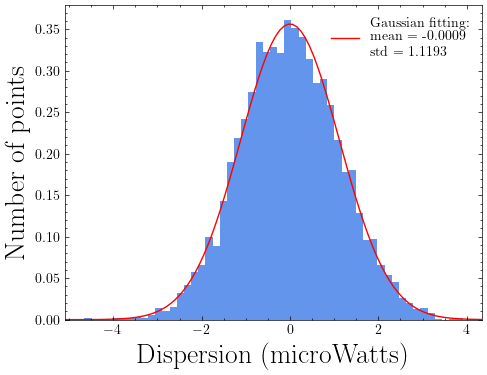
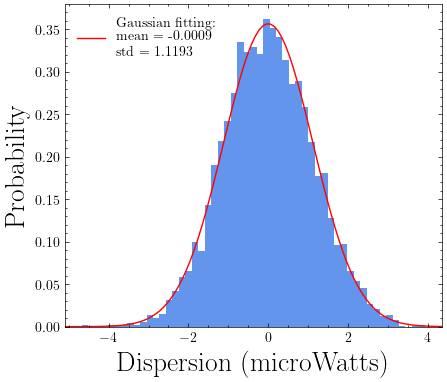
minor

Changed region(s): [[0.0, 0.0, 1.0, 0.9973], [0.7852, 0.704, 0.8143, 0.7627]]

diff --git a/visualize_locked.py b/visualize_locked.py
@@ -97,7 +97,7 @@ plt.hlines(m, x_bounds[0] ,x_bounds[1], colors='black', linestyles='dashed', zor
 plt.legend(fontsize=20) 
 plt.xlabel('times (seconds)')
 plt.ylabel('Power (microWatts)')
-plt.title(f'Power of the blue laser (422nm): Power setpoint = {P(0.08):.4f} microWatts')
+plt.title(f'Power of the blue laser (422nm): Power setpoint = {P(0.07):.4f} microWatts')
 plt.rc('axes', titlesize=20)
 plt.rc('axes', labelsize = 20) 
 plot_file = os.path.join(figures_dir, "locked_laser.png")
@@ -123,7 +123,7 @@ ax.set_ylim(y_bounds[0], y_bounds[1])
 # plt.vlines(2*errstd, y_bounds[0], y_bounds[1], colors = 'orange', linestyles = 'dashed', zorder = 1)
 # plt.vlines(-2*errstd, y_bounds[0], y_bounds[1], colors = 'orange', linestyles = 'dashed', zorder = 1)
 plt.xlabel('Dispersion (microWatts)')
-plt.ylabel('Number of points')
+plt.ylabel('Probability')
 # plt.rc('axes', titlesize=20)
 # plt.rc('axes', labelsize = 20) 
 x =np.linspace(x_bounds[0], x_bounds[1], 100)

diff --git a/visualize_free.py b/visualize_free.py
@@ -179,7 +179,7 @@ ax.set_ylim(y_bounds[0], y_bounds[1])
 # plt.vlines(2*errstd, y_bounds[0], y_bounds[1], colors = 'orange', linestyles = 'dashed', zorder = 1)
 # plt.vlines(-2*errstd, y_bounds[0], y_bounds[1], colors = 'orange', linestyles = 'dashed', zorder = 1)
 plt.xlabel('Dispersion (microWatts)')
-plt.ylabel('Number of points')
+plt.ylabel('Probability')
 # plt.rc('axes', titlesize=20)
 # plt.rc('axes', labelsize = 20) 
 x =np.linspace(x_bounds[0], x_bounds[1], 100)
